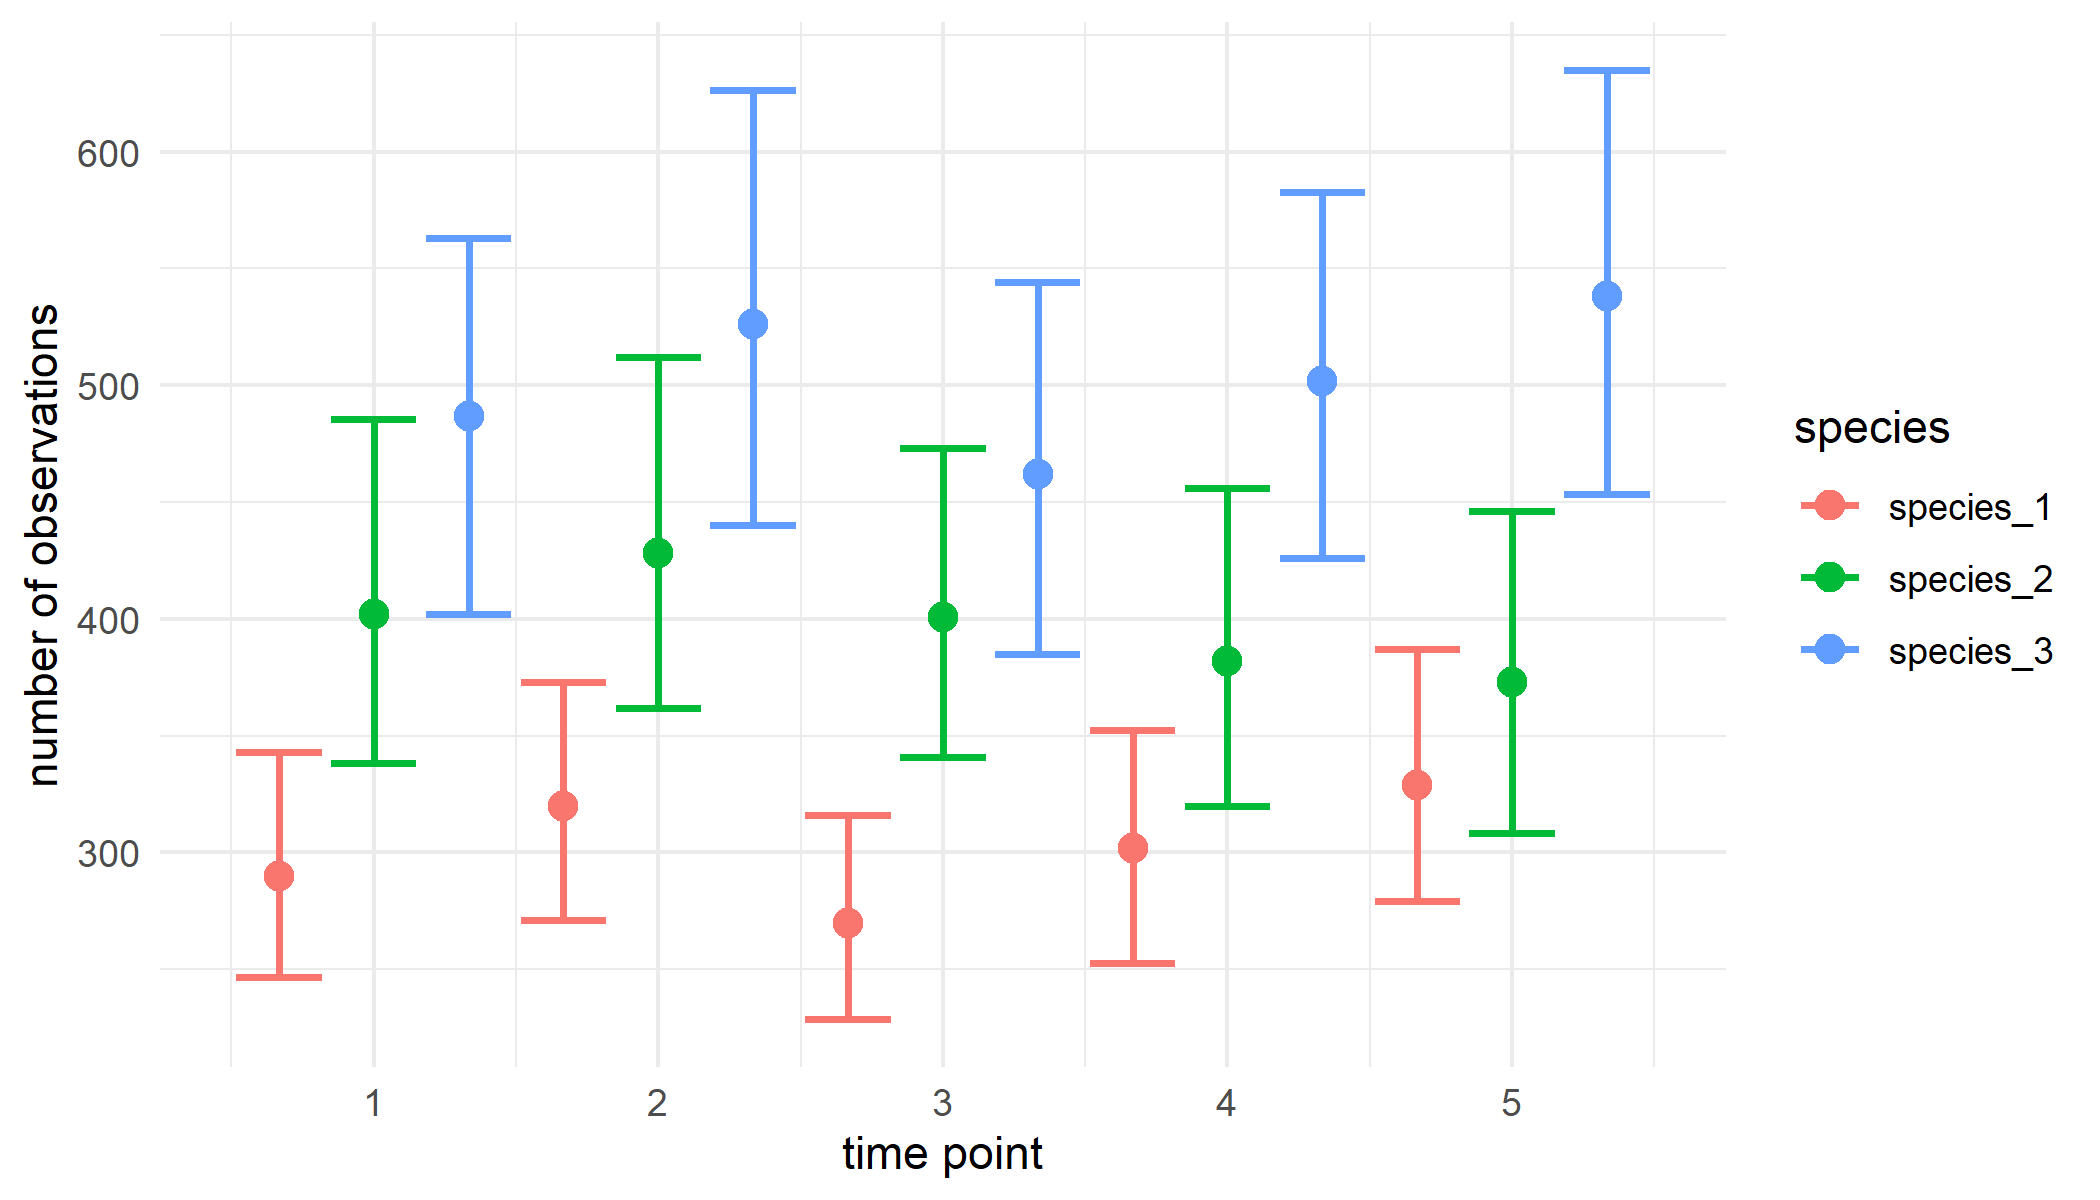
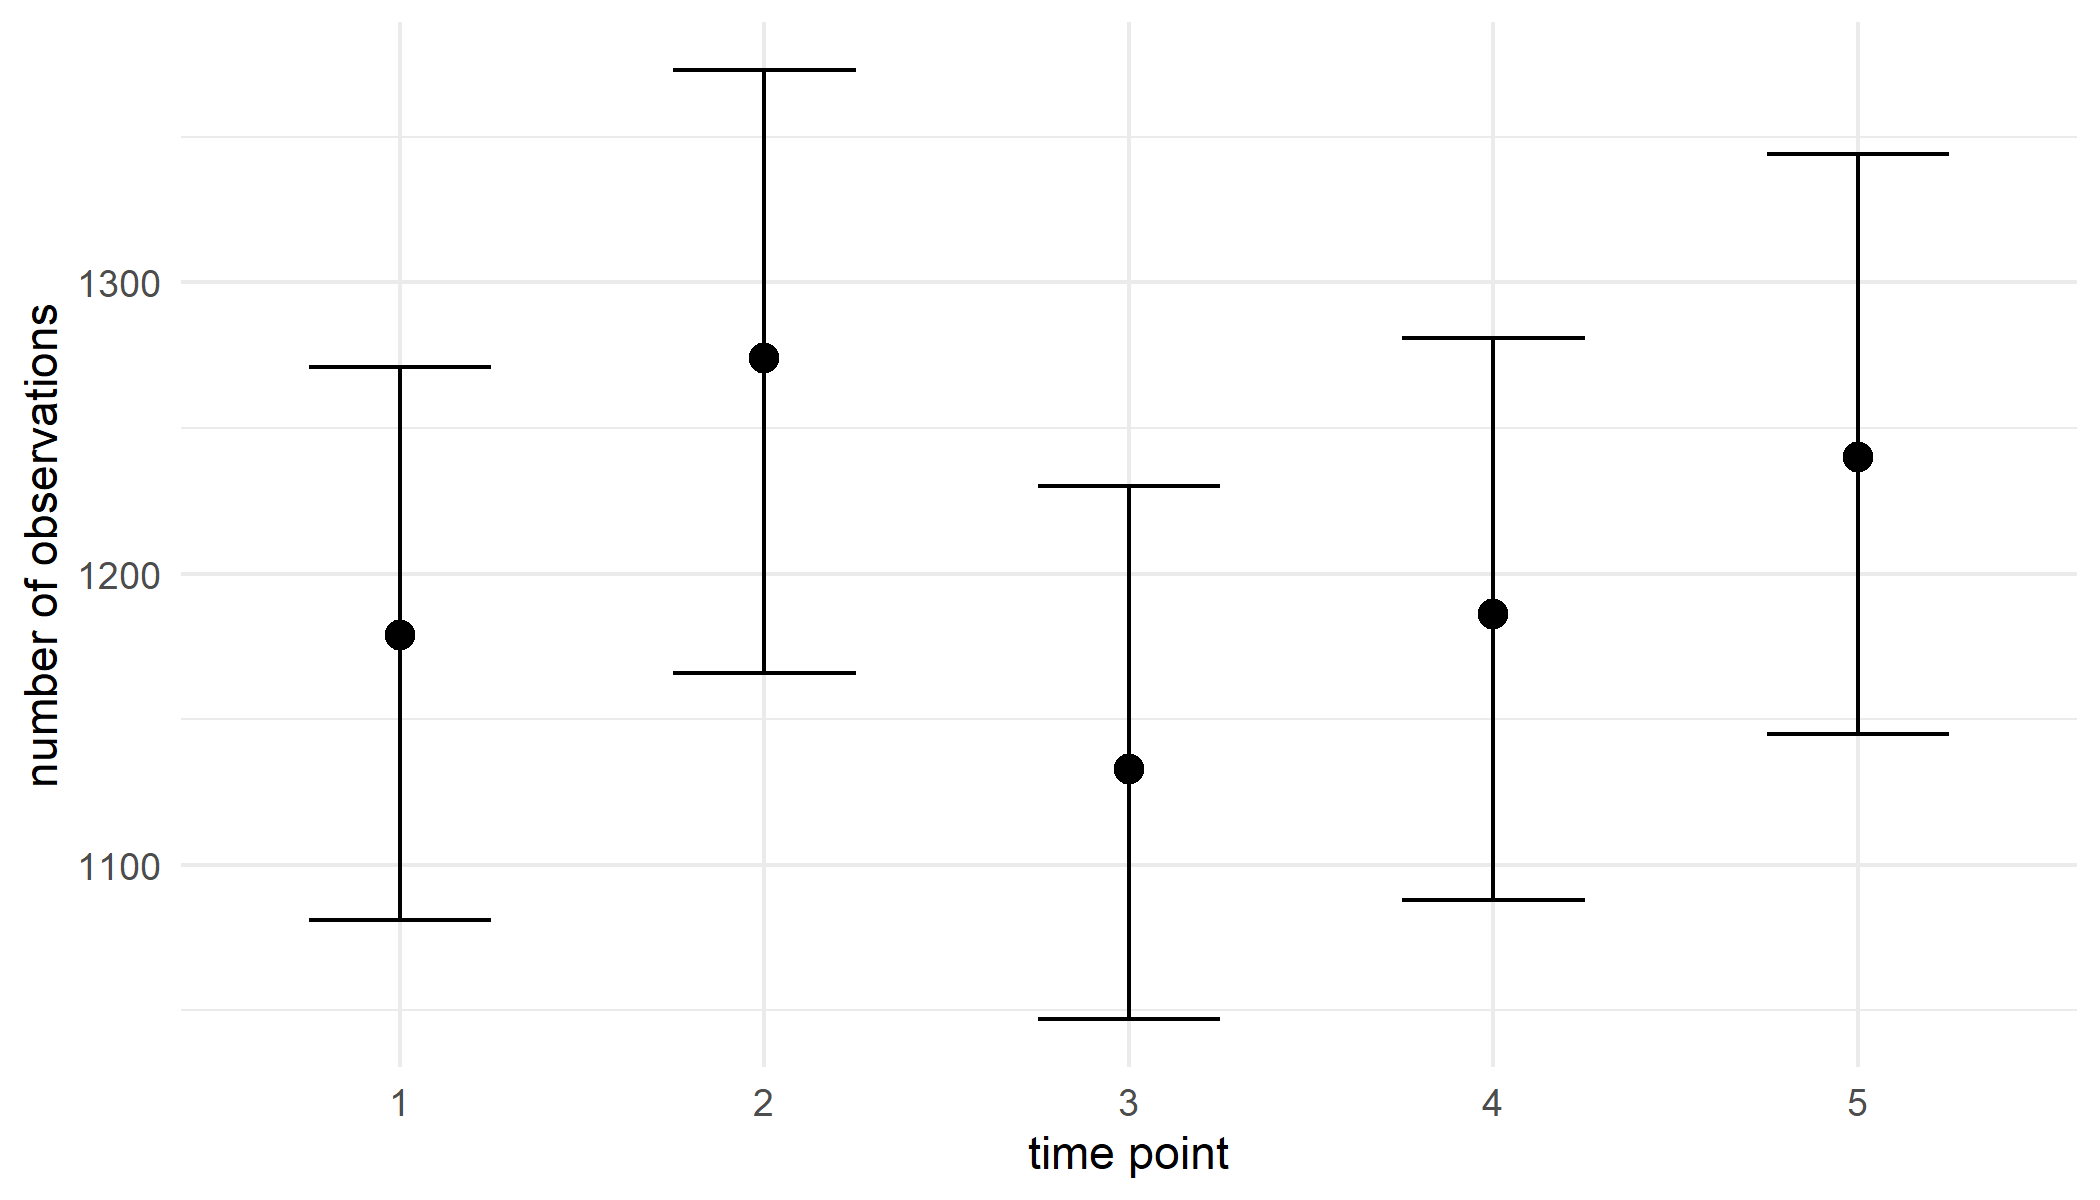
use updated packages

diff --git a/src/content/docs/guides/b3verse.md b/src/content/docs/guides/b3verse.md
@@ -123,7 +123,7 @@ We provide a basic example of an analysis workflow using the **b3verse** package
 This example demonstrates the process but is not intended as a best-practice analysis.
 For more detailed guidance, refer to the package tutorials.  
 
-In this workflow, we use **gcube** v1.3.5 to simulate an occurrence cube, **b3gbi** v0.6.3 to process the cube, and **dubicube** v0.8.0 to calculate uncertainty around indicator estimates.
+In this workflow, we use **gcube** v1.4.1 to simulate an occurrence cube, **b3gbi** v0.6.3 to process the cube, and **dubicube** v0.11.0 to calculate uncertainty around indicator estimates.
 
 
 ``` r
@@ -289,15 +289,16 @@ processed_cube
 
 #### Indicator calculation
 
-Finally, we calculate a simple indicator: the total number of observations per species per year.
+Finally, we calculate a simple indicator: the total number of observations are there in the cube per year.
 
 
 ``` r
-species_observations <- function(cube) {
-  # Calculate the number of observations per species per year
+total_abundance <- function(cube) {
   cube %>%
-    summarise(diversity_val = sum(obs),
-              .by = c(scientificName, year))
+    summarise(
+      diversity_val = sum(obs),
+      .by = "year"
+    )
 }
 ```
 
@@ -305,84 +306,47 @@ The values are calculated and added to a new column `diversity_val`.
 
 
 ``` r
-species_observations(processed_cube$data)
-#> # A tibble: 15 × 3
-#>    scientificName  year diversity_val
-#>    <chr>          <dbl>         <dbl>
-#>  1 species_1          1           290
-#>  2 species_2          1           402
-#>  3 species_3          1           487
-#>  4 species_1          2           320
-#>  5 species_2          2           428
-#>  6 species_3          2           526
-#>  7 species_1          3           270
-#>  8 species_2          3           401
-#>  9 species_3          3           462
-#> 10 species_1          4           302
-#> 11 species_2          4           382
-#> 12 species_3          4           502
-#> 13 species_1          5           329
-#> 14 species_2          5           373
-#> 15 species_3          5           538
+total_abundance(processed_cube$data)
+#> # A tibble: 5 × 2
+#>    year diversity_val
+#>   <dbl>         <dbl>
+#> 1     1          1179
+#> 2     2          1274
+#> 3     3          1133
+#> 4     4          1186
+#> 5     5          1240
 ```
 
 We use bootstrapping to calculate uncertainty around the estimates.
-We calculate the 95 % bias-corrected and accelerated (BCa) interval for each estimate.
+We calculate the 95 % percentile interval for each estimate.
 
 
 ``` r
 # Perform bootstrapping
 bootstrap_observations <- dubicube::bootstrap_cube(
   data_cube = processed_cube,
-  fun = species_observations,
-  grouping_var = c("scientificName", "year"),
+  fun = total_abundance,
+  grouping_var = "year",
   samples = 1000,
   seed = 123
 )
+#> [1] "Performing group-specific bootstrap with `boot::boot()`."
 
-# Calculate BCa intervals
+# Calculate percentile intervals
 ci_observations <- dubicube::calculate_bootstrap_ci(
-  bootstrap_samples_df = bootstrap_observations,
-  grouping_var = c("scientificName", "year"),
-  type = "bca",
-  conf = 0.95,
-  data_cube = processed_cube,
-  fun = species_observations
+  bootstrap_results = bootstrap_observations,
+  grouping_var = "year",
+  type = "perc",
+  conf = 0.95
 )
 
 ci_observations
-#>    scientificName year est_original est_boot  se_boot bias_boot int_type conf
-#> 1       species_1    1          290  290.105 24.46022     0.105      bca 0.95
-#> 2       species_1    2          320  321.075 26.30561     1.075      bca 0.95
-#> 3       species_1    3          270  270.229 22.48569     0.229      bca 0.95
-#> 4       species_1    4          302  302.541 25.74146     0.541      bca 0.95
-#> 5       species_1    5          329  329.187 26.90535     0.187      bca 0.95
-#> 6       species_2    1          402  401.399 35.75847    -0.601      bca 0.95
-#> 7       species_2    2          428  428.076 37.34537     0.076      bca 0.95
-#> 8       species_2    3          401  401.521 33.43716     0.521      bca 0.95
-#> 9       species_2    4          382  379.198 33.83018    -2.802      bca 0.95
-#> 10      species_2    5          373  374.539 35.58917     1.539      bca 0.95
-#> 11      species_3    1          487  488.132 41.80905     1.132      bca 0.95
-#> 12      species_3    2          526  526.244 45.72784     0.244      bca 0.95
-#> 13      species_3    3          462  461.012 40.02179    -0.988      bca 0.95
-#> 14      species_3    4          502  503.143 40.87546     1.143      bca 0.95
-#> 15      species_3    5          538  536.906 45.84350    -1.094      bca 0.95
-#>          ll       ul
-#> 1  246.7550 343.0000
-#> 2  271.0000 373.0000
-#> 3  228.6241 316.2085
-#> 4  252.6628 352.6329
-#> 5  279.1095 387.0513
-#> 6  338.4143 485.4423
-#> 7  361.6378 512.0000
-#> 8  340.7850 473.1140
-#> 9  319.9624 456.0000
-#> 10 308.3428 446.0000
-#> 11 401.9035 563.2030
-#> 12 440.0000 626.4637
-#> 13 384.7805 544.3632
-#> 14 426.0000 582.5442
-#> 15 453.3883 635.0000
+#>   year est_original int_type       ll       ul conf
+#> 1    1         1179     perc 1081.025 1271.000 0.95
+#> 2    2         1274     perc 1166.051 1373.000 0.95
+#> 3    3         1133     perc 1047.000 1229.949 0.95
+#> 4    4         1186     perc 1088.025 1280.975 0.95
+#> 5    5         1240     perc 1145.025 1344.000 0.95
 ```
 
 We visualise the results.
@@ -390,12 +354,11 @@ We visualise the results.
 
 ``` r
 ci_observations %>%
-  ggplot(aes(x = year, y = est_original, colour = scientificName)) +
-      geom_errorbar(aes(ymin = ll, ymax = ul),
-                    linewidth = 0.8, position = position_dodge(1)) +
-      geom_point(size = 3, position = position_dodge(1)) +
-      labs(y = "number of observations", x = "time point", colour = "species") +
-      theme_minimal()
+  ggplot(aes(x = year, y = est_original)) +
+    geom_errorbar(aes(ymin = ll, ymax = ul), width = 0.5) +
+    geom_point(size = 3, position = position_dodge(1)) +
+    labs(y = "number of observations", x = "time point") +
+    theme_minimal()
 ```
 
 ![plot of chunk indicator-trends](../../../../public/guides/b3verse/indicator-trends-1.png)
